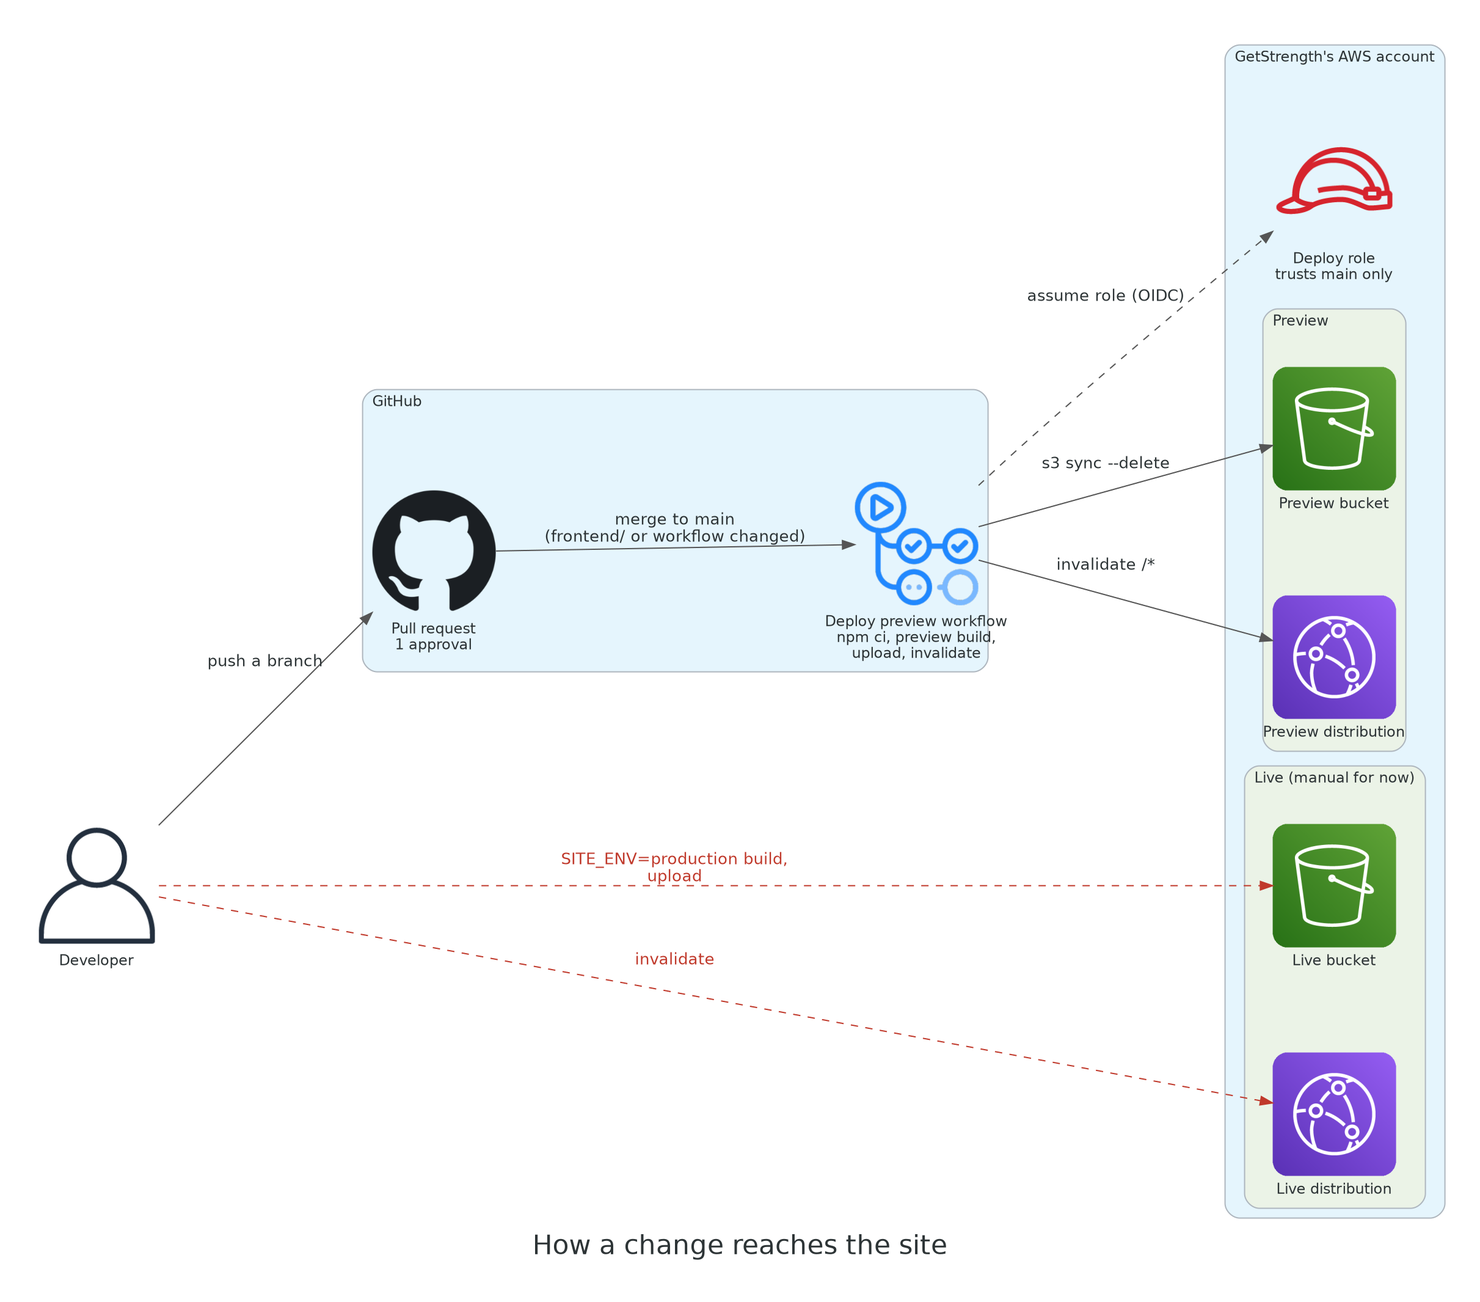
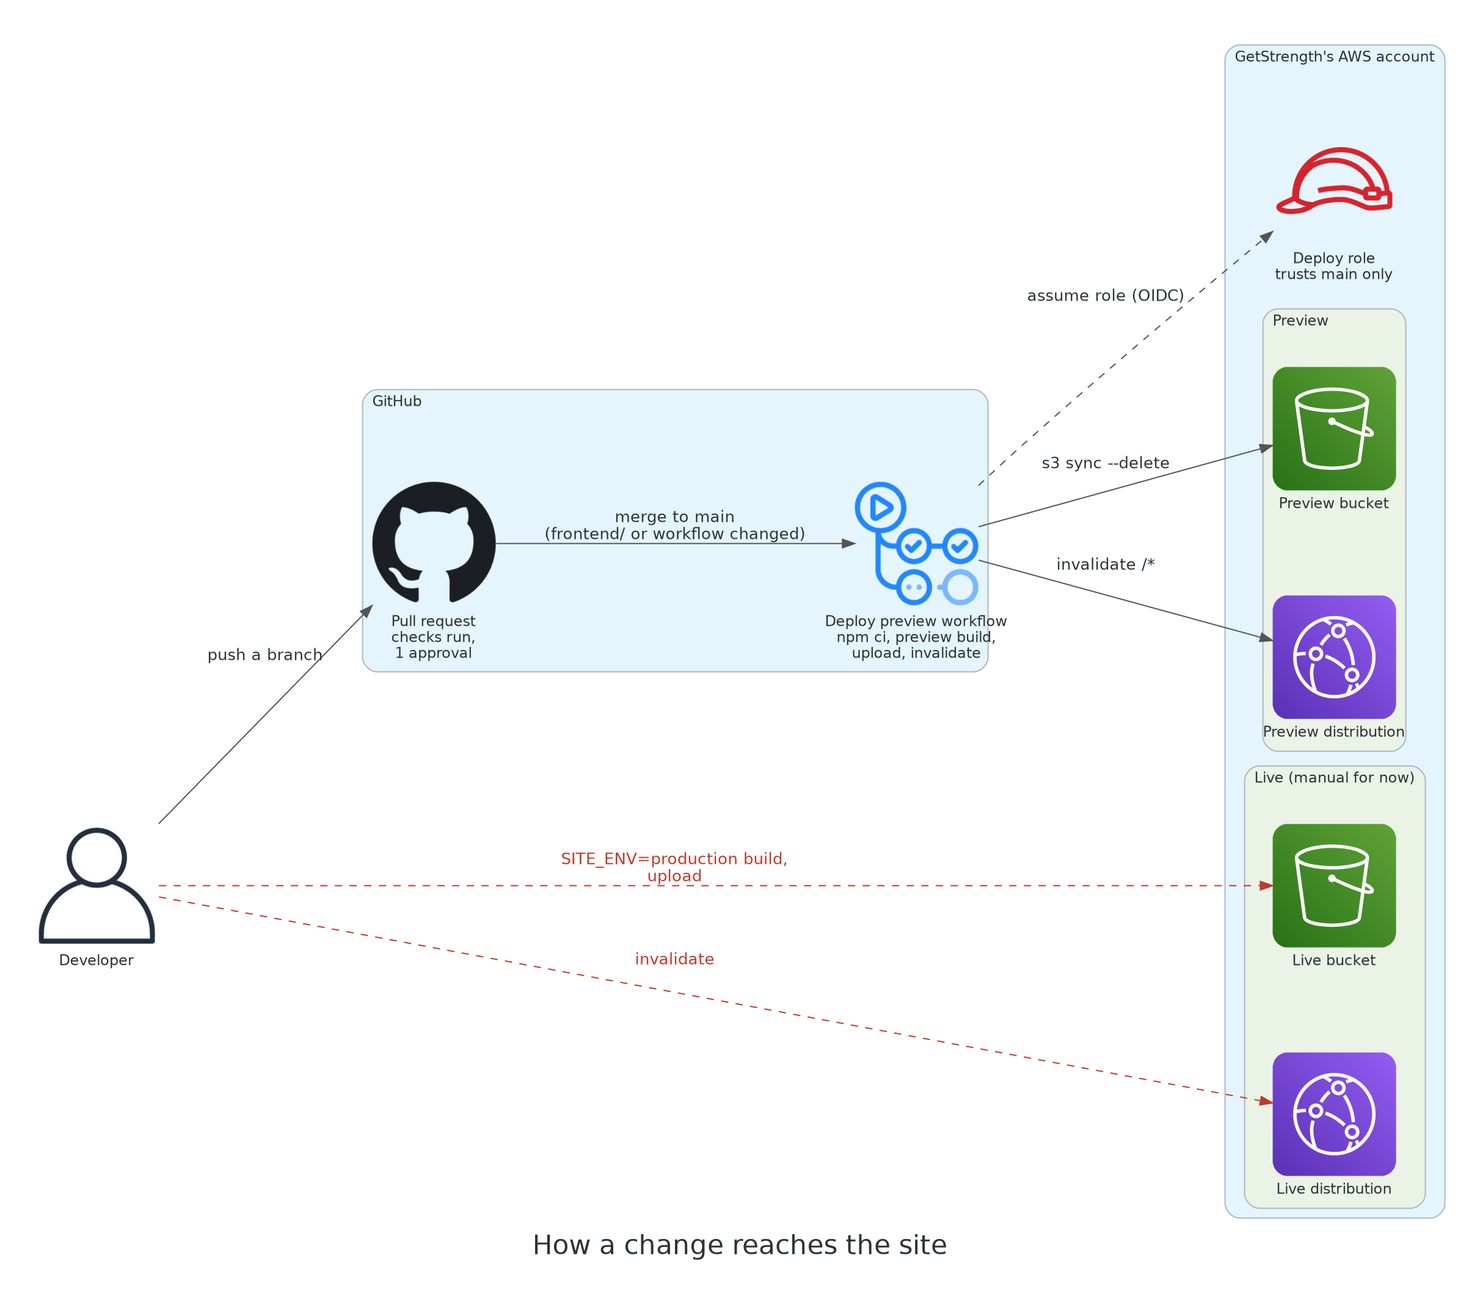
Refresh the README, add a docs index and CONTRIBUTING, update the diagrams (#24)

Changed region(s): [[0.2167, 0.3717, 0.5572, 0.5265], [0.1548, 0.4955, 0.2167, 0.5265]]

diff --git a/docs/diagrams/architecture.py b/docs/diagrams/architecture.py
@@ -35,16 +35,18 @@ with Diagram("How a visit is served", filename="request-path", show=False, direc
         cdn = CloudFront("CloudFront\n+ viewer-request function")
         cert = ACM("ACM certificate\nus-east-1 (at launch)")
         bucket = S3("Private S3 bucket\nap-southeast-2")
-        dns = Route53("Route 53\ngetstrength.com\n(at launch)")
+        dns = Route53("Route 53\nthe gym's domain\n(at launch)")
 
     email = external("Google Workspace\nthe gym's email")
     signup = external("Debit Success\nmembership signup")
+    maps = external("Google Maps\nembedded map")
 
     cdn >> Edge(label="TLS", style="dotted", arrowhead="none") >> cert
     visitors >> Edge(label="HTTPS") >> cdn >> Edge(label="Origin Access Control") >> bucket
     visitors >> Edge(label="DNS lookup", style="dashed") >> dns
     dns >> Edge(label="MX, SPF, DKIM, DMARC", style="dashed") >> email
     visitors >> Edge(label="Join", style="dashed") >> signup
+    visitors >> Edge(label="map embed", style="dashed") >> maps
 
 
 with Diagram("How a change reaches the site", filename="deploy-pipeline", show=False, direction="LR",
@@ -52,7 +54,7 @@ with Diagram("How a change reaches the site", filename="deploy-pipeline", show=F
     dev = User("Developer")
 
     with Cluster("GitHub"):
-        pr = Github("Pull request\n1 approval")
+        pr = Github("Pull request\nchecks run,\n1 approval")
         deploy = GithubActions("Deploy preview workflow\nnpm ci, preview build,\nupload, invalidate")
 
     with Cluster("GetStrength's AWS account"):

diff --git a/README.md b/README.md
@@ -1,26 +1,47 @@
+<div align="center">
+
+<img src="frontend/app/icon.png" width="96" alt="GetStrength Gym shield logo">
+
 # GetStrength Gym website
 
+*The static website for GetStrength Gym in Penrose, Auckland*
+
+[![Checks](https://github.com/GetStrength-Gym/GetStrengthGym/actions/workflows/checks.yml/badge.svg)](https://github.com/GetStrength-Gym/GetStrengthGym/actions/workflows/checks.yml)
 [![Deploy preview](https://github.com/GetStrength-Gym/GetStrengthGym/actions/workflows/deploy-preview.yml/badge.svg)](https://github.com/GetStrength-Gym/GetStrengthGym/actions/workflows/deploy-preview.yml)
+[![Next.js 16](https://img.shields.io/badge/Next.js-16-black?logo=nextdotjs)](https://nextjs.org)
+[![Node.js 22](https://img.shields.io/badge/Node.js-22-3c873a?logo=nodedotjs&logoColor=white)](https://nodejs.org)
 [![License: MIT](https://img.shields.io/badge/license-MIT-blue.svg)](LICENSE)
 
-The new website for **GetStrength Gym** in Penrose, Auckland. It is a static site with three
-pages, **Home**, **About Us** and **Contact**; Home also serves as The Gym page. Membership
-signup stays on Debit Success.
+[Overview](#overview) • [Getting started](#getting-started) • [Commands](#commands) • [How it works](#how-it-works) • [Deploying](#deploying) • [Documentation](#documentation)
+
+</div>
+
+## Overview
+
+The site has three pages: **Home**, **About Us** and **Contact**. Home also serves as The
+Gym page. Membership signup stays on Debit Success.
 
 There is no server, database or CMS. Gym staff never edit the site: they email the
 maintenance team, who change a file here and redeploy
 ([ADR-003](docs/context/decisions/ADR-003-maintenance-team-editing.md)).
 
-> **Status (November 2026): pre-launch.** The preview site redeploys automatically when a
-> merge to `main` changes `frontend/` or the deploy workflow. The live launch, meaning the first production deploy
-> and the DNS move, is still to come. The contact form is a preview-only layout until its
-> sending method is decided.
+- **Static export.** Next.js builds plain HTML, CSS and JS. Nothing runs in production
+  except a CDN in front of a private bucket.
+- **Content as files.** Site details, prices and photos are JSON files, validated on every
+  build.
+- **Two build modes.** A preview build shows sample prices and labelled placeholders. A
+  production build shows only what the gym has confirmed.
+- **Automatic preview.** Every merge to `main` that changes the site redeploys the preview.
 
-## Quick start
+> [!NOTE]
+> **Status (November 2026): pre-launch.** The preview site is live and redeploys on merge.
+> The first production deploy and the DNS move are still to come, and the contact form is a
+> preview-only layout until its sending method is decided. What's left is on the
+> [roadmap](https://github.com/GetStrength-Gym/GetStrengthGym/wiki/Roadmap).
 
-You need [Docker Desktop](https://www.docker.com/products/docker-desktop/). On Windows,
-enable WSL 2, keep the repo inside your Ubuntu home (not on `C:`), and turn on
-Docker Desktop → Settings → Resources → WSL Integration → Ubuntu.
+## Getting started
+
+You need [Docker Desktop](https://www.docker.com/products/docker-desktop/).
 
 ```sh
 git clone https://github.com/GetStrength-Gym/GetStrengthGym.git
@@ -30,10 +51,14 @@ docker compose up --build
 
 Open <http://localhost:3000>. The first run takes a few minutes.
 
+> [!TIP]
+> On Windows, enable WSL 2, keep the repo inside your Ubuntu home (not on `C:`), and turn on
+> Docker Desktop → Settings → Resources → WSL Integration → Ubuntu.
+
 <details>
 <summary>Without Docker</summary>
 
-Use Node.js 22, the version in the Dockerfile and the deploy workflow:
+Use Node.js 22, the version in the Dockerfile and the workflows:
 
 ```sh
 cd frontend
@@ -41,25 +66,11 @@ npm ci
 npm run dev
 ```
 
-Run the `npm` and `node` commands below directly in `frontend/`. For a production build, use
+Run the `npm` commands below directly in `frontend/`. For a production build, use
 `SITE_ENV=production npm run build`.
 </details>
 
-## Documentation
-
-| Document | What it covers |
-|---|---|
-| [docs/requirements.md](docs/requirements.md) | What we're building, and the quote. It is client-facing and mirrored in a shared document, so update both. |
-| [HANDOVER.md](HANDOVER.md) | Where the project stands, and what to watch out for |
-| [Project brief](docs/context/project-brief.md) | Scope, constraints and open questions |
-| [Decisions (ADRs)](docs/context/decisions/README.md) | Why the site is built this way |
-| [Developer runbook](docs/maintenance/content-changes.md) | Making content changes, checking them and deploying |
-| [Change-request guide](docs/maintenance/change-request-guide.md) | For the gym: how to ask for a change |
-| [Design](docs/design/README.md) | Visual direction and the page journey |
-| [Meeting minutes](docs/meetings/README.md) | What was agreed with the client and the team |
-| [Old-site audit](docs/context/current-site-audit.md) | The site this one replaces, and why we started fresh |
-
-## Everyday commands
+## Commands
 
 Run these from the repo root.
 
@@ -77,24 +88,29 @@ docker compose exec frontend npm install <name>   # add a package (while running
 docker compose up --build -V                      # after pulling changes that add packages
 ```
 
+The [Checks](.github/workflows/checks.yml) workflow runs lint, the tests and a preview build
+on every pull request.
+
 ## How it works
 
-![How a visit is served. Visitors reach CloudFront over HTTPS, and CloudFront reads the private S3 bucket through Origin Access Control. At launch, Route 53 answers DNS for getstrength.com and holds the gym's email records, and ACM provides the certificate. Joining happens on Debit Success.](docs/diagrams/request-path.png)
+![How a visit is served. Visitors reach CloudFront over HTTPS, and CloudFront reads the private S3 bucket through Origin Access Control. At launch, Route 53 answers DNS for the gym's domain and holds the gym's email records, and ACM provides the certificate. Joining happens on Debit Success, and the map on Home and Contact is a Google Maps embed.](docs/diagrams/request-path.png)
 
 - **Static export** ([ADR-005](docs/context/decisions/ADR-005-nextjs-static-export.md)).
   Next.js 16, React 19, TypeScript and Tailwind CSS 4 build plain HTML, CSS and JS. No
   application server runs in production.
 - **Content as files** ([ADR-006](docs/context/decisions/ADR-006-content-as-files.md)).
-  Site details live in `frontend/content/site.json`. Real prices live in `prices.json`, and
-  preview builds show `prices.sample.json` instead. The build validates the content and
-  fails with the file and field at fault.
+  Site details live in `frontend/content/site.json` and photo choices in `photos.json`.
+  Real prices live in `prices.json`, and preview builds show `prices.sample.json` instead.
+  The build validates the content and fails with the file and field at fault.
 - **Delivery** ([ADR-007](docs/context/decisions/ADR-007-aws-delivery-route53-oac.md)). A
   private S3 bucket sits behind CloudFront. A CloudFront Function serves `/about/` from
   `about/index.html` and redirects `/about` to `/about/`. Missing pages get the site's 404.
   Route 53 and the certificate arrive at launch; until then the preview uses its CloudFront
   address.
+- **Third parties.** Joining links out to Debit Success, and the map on Home and Contact is
+  a Google Maps embed. Nothing else loads from outside the site.
 
-## Preview and production builds
+### Preview and production builds
 
 `SITE_ENV` decides what a build shows. Anything other than `SITE_ENV=production`, including
 a plain `npm run build`, is a preview build.
@@ -102,14 +118,16 @@ a plain `npm run build`, is a preview build.
 | | Preview (default) | Production (`SITE_ENV=production`) |
 |---|---|---|
 | Prices shown | `prices.sample.json`, labelled "preview only" | `prices.json` |
-| Unconfirmed content (photos, hours, phone…) | labelled placeholders | left out |
+| Unconfirmed content (coach, services, email…) | labelled placeholders | left out |
 | Price checks | both price files validated; client confirmation not needed | `prices.json` validated; the build **fails** until the client has confirmed the prices |
 
-**Never upload a preview build to the live site.**
+> [!CAUTION]
+> Never upload a preview build to the live site. The sample prices and placeholders would go
+> live with it.
 
 ## Deploying
 
-![How a change reaches the site. A developer opens a pull request; once it has one approval and is merged to main with changes to frontend/ or the deploy workflow, the Deploy preview workflow builds the site, assumes the deploy role through OIDC, syncs the files to the preview bucket and invalidates the preview distribution. The live bucket and distribution are updated by hand from a production build.](docs/diagrams/deploy-pipeline.png)
+![How a change reaches the site. A developer opens a pull request, and the Checks workflow runs lint, tests and a build on it. Once it has one approval and is merged to main with changes to frontend/ or the deploy workflow, the Deploy preview workflow builds the site, assumes the deploy role through OIDC, syncs the files to the preview bucket and invalidates the preview distribution. The live bucket and distribution are updated by hand from a production build.](docs/diagrams/deploy-pipeline.png)
 
 - **Preview: automatic** ([ADR-008](docs/context/decisions/ADR-008-auto-deploy-preview.md)).
   When a merge to `main` changes `frontend/` or the workflow, the
@@ -138,44 +156,32 @@ with the official AWS icons. The command to regenerate them is at the top of tha
 .
 ├── frontend/                 the website (Next.js)
 │   ├── app/                  pages: Home, about/, contact/, 404
-│   ├── components/           header, footer, join button, prices, placeholders
-│   ├── content/              site.json, prices.json, prices.sample.json
+│   ├── components/           header, footer, join button, prices, hero video, map
+│   ├── content/              site.json, photos.json, prices.json, prices.sample.json
 │   ├── lib/                  content loader and validation, with its test
 │   ├── cloudfront/           CloudFront viewer-request function, with its test
-│   └── public/               images, served as-is
+│   └── public/               images and the hero video, served as-is
 ├── docs/                     requirements, decisions, runbooks, design, meetings, diagrams
 ├── scripts/                  maintainer tools (publishing the docs)
-├── .github/workflows/        preview deploy
+├── .github/                  workflows (checks, preview deploy) and Dependabot config
 ├── docker-compose.yml        local development only
+├── CONTRIBUTING.md           branches, pull requests and the ground rules
 ├── HANDOVER.md               where things stand, for whoever picks this up
 └── CLAUDE.md                 rules for AI-assisted work on this repo
 ```
 
-## Ground rules
+## Documentation
 
-- **Don't invent gym facts.** Prices, hours, names and claims come from the client, in
-  writing. Until then, use a labelled placeholder or `TODO(confirm)`.
-- **Real prices live in one place**, `frontend/content/prices.json`. Never put a price in a
-  page or component.
-- **This repo is public.** Never commit, or paste into a PR: AWS account IDs, bucket names,
-  distribution IDs or preview addresses, keys, client contact details, private document links
-  or internal pricing notes.
-- **Stay static.** Don't add route handlers, middleware, server actions or ISR. `next/image`
-  runs unoptimized, so resize and compress photos before adding them. Keep
-  `trailingSlash: true`; clean URLs depend on it.
-- Build mobile-first at 375px and meet basic WCAG 2.2 AA, with a unique title and one H1 per
-  page.
+The full map is in [docs/README.md](docs/README.md). The ones you'll need most:
 
-## Contributing
-
-1. Branch from `main`. Name the branch after the Jira ticket, e.g. `feature/GS-19-about-contact-pages`,
-   or `content/<short-description>` for a content change.
-2. Run lint, both tests and a build before you push.
-3. Open a PR with the ticket key in the title. `main` needs one approval, and pushing new
-   commits dismisses earlier approvals.
-4. A decision that is expensive to reverse gets an ADR: copy
-   [the template](docs/context/decisions/ADR-000-template.md). A client request heard in a
-   meeting goes into the [minutes](docs/meetings/README.md) before it goes into code.
+| Document | What it covers |
+|---|---|
+| [Requirements](docs/requirements.md) | What we're building, and the quote |
+| [HANDOVER.md](HANDOVER.md) | Where the project stands, and what to watch out for |
+| [Developer runbook](docs/maintenance/content-changes.md) | Making content changes, checking them and deploying |
+| [Decisions (ADRs)](docs/context/decisions/README.md) | Why the site is built this way |
+| [Roadmap](https://github.com/GetStrength-Gym/GetStrengthGym/wiki/Roadmap) | What's done, what's next |
+| [CONTRIBUTING.md](CONTRIBUTING.md) | How to make a change, and the rules that keep the site safe |
 
 ## Troubleshooting
 
@@ -188,7 +194,6 @@ with the official AWS icons. The command to regenerate them is at the top of tha
   `docker-compose.yml`.
 - **Clean up build output:** `docker compose run --rm frontend rm -rf out`.
 
-## Team and license
+## Team
 
 Built and maintained by Johnson Zhang (lead), Desmond Li, Jayden Pham and Kevin Wang.
-Released under the [MIT License](LICENSE), © 2026 GetStrength Gym.

diff --git a/docs/README.md b/docs/README.md
@@ -1,0 +1,54 @@
+# Documentation
+
+Everything written down about the GetStrength Gym website, grouped by what you came to do.
+New here? Read [HANDOVER.md](../HANDOVER.md) first, then the [requirements](requirements.md).
+
+## What we're building
+
+| Document | What it covers |
+|---|---|
+| [requirements.md](requirements.md) | The client-facing requirements and the quote. The single source of truth for scope. It is mirrored in a shared document, so update both. |
+| [quote-GS-001.md](quote-GS-001.md) | The quote dated 23 September 2026, kept unchanged |
+| [Project brief](context/project-brief.md) | Scope, constraints and the open questions still waiting on the gym |
+| [Stakeholders](context/stakeholders.md) | Who is on the team and who decides for the client |
+| [Glossary](context/glossary.md) | Project and gym terms |
+| [Roadmap](https://github.com/GetStrength-Gym/GetStrengthGym/wiki/Roadmap) (wiki) | What's done, what's next |
+
+## Why it's built this way
+
+| Document | What it covers |
+|---|---|
+| [Decisions (ADRs)](context/decisions/README.md) | One record per significant decision, with an index and each one's status |
+| [Diagrams](diagrams/) | The request path and the deploy pipeline, generated from `architecture.py` |
+| [Old-site audit](context/current-site-audit.md) | The site this one replaces, and why we started fresh |
+
+## Changing and running the site
+
+| Document | What it covers |
+|---|---|
+| [Developer runbook](maintenance/content-changes.md) | Changing content, checking it, deploying, and rolling back |
+| [Change-request guide](maintenance/change-request-guide.md) | For the gym: how to ask for a change |
+| [Site inventory](content/site-inventory.md) | The old site's pages and what happens to each one |
+
+## Design
+
+| Document | What it covers |
+|---|---|
+| [Design overview](design/README.md) | Direction, brand tokens and the Figma files |
+| [Page journey](design/five-page-journey.md) | The current three-page design. The filename is older than the scope. |
+| [Visual direction](design/visual-direction.md) | Colour, type, components and contrast checks |
+
+## History
+
+| Document | What it covers |
+|---|---|
+| [Meeting minutes](meetings/README.md) | What was agreed with the client and the team. Append-only. |
+| [Raw meeting notes](meetings/raw/) | The source notes behind each set of minutes |
+
+## Keeping the docs honest
+
+- Minutes are never rewritten. If a decision changes, write new minutes.
+- An accepted ADR is never edited to change its decision. Add a dated note, or supersede it.
+- Unknown gym facts are written as `TODO(confirm)`, never guessed.
+- This repo is public. Internal pricing notes, client contact details and private document
+  links stay out of it.

diff --git a/CONTRIBUTING.md b/CONTRIBUTING.md
@@ -1,0 +1,34 @@
+# Contributing
+
+## Making a change
+
+1. Branch from `main`. Name the branch after the Jira ticket, e.g.
+   `feature/GS-19-about-contact-pages`, or `content/<short-description>` for a content change.
+2. Run lint, the tests and a build before you push. The commands are in the
+   [README](README.md#commands), and the Checks workflow runs the same three on your pull
+   request.
+3. Open a PR with the ticket key in the title. `main` needs one approval, and pushing new
+   commits dismisses earlier approvals.
+4. A decision that is expensive to reverse gets an ADR: copy
+   [the template](docs/context/decisions/ADR-000-template.md). A client request heard in a
+   meeting goes into the [minutes](docs/meetings/README.md) before it goes into code.
+
+Content changes (prices, hours, photos, copy) have their own step-by-step
+[runbook](docs/maintenance/content-changes.md).
+
+## Ground rules
+
+- **Don't invent gym facts.** Prices, hours, names and claims come from the client, in
+  writing. Until then, use a labelled placeholder or `TODO(confirm)`.
+- **Real prices live in one place**, `frontend/content/prices.json`. Never put a price in a
+  page or component.
+- **This repo is public.** Never commit, or paste into a PR: AWS account IDs, bucket names,
+  distribution IDs or preview addresses, keys, client contact details, private document links
+  or internal pricing notes.
+- **Stay static.** Don't add route handlers, middleware, server actions or ISR. `next/image`
+  runs unoptimized, so resize and compress photos before adding them. Keep
+  `trailingSlash: true`; clean URLs depend on it.
+- Build mobile-first at 375px and meet basic WCAG 2.2 AA, with a unique title and one H1 per
+  page.
+- **History stays history.** Meeting minutes are append-only, and an accepted ADR is never
+  edited to change its decision: add a dated note, or write a new ADR that supersedes it.

diff --git a/docs/context/glossary.md b/docs/context/glossary.md
@@ -5,7 +5,18 @@ Add a row the first time a term appears in minutes.
 
 | Term | Means |
 |------|-------|
-| TODO | |
+| ADR | Architecture Decision Record: one file per significant decision, in `docs/context/decisions/`. |
+| Preview build | Any build without `SITE_ENV=production`. Shows sample prices and labelled placeholders. Never goes to the live site. |
+| Production build | A build with `SITE_ENV=production`. Shows only confirmed content, and fails until the prices are confirmed. |
+| Preview site | The private-address copy of the site that redeploys on every merge to `main` (ADR-008). |
+| Live site | The public site on the gym's domain. Not launched yet. |
+| `confirmedWithClient` | The date in `prices.json` on which the gym confirmed the prices. `null` blocks a production build. |
+| `TODO(confirm)` | A fact we don't have from the gym in writing yet. Never replace it with a guess. |
+| Debit Success | The gym's membership signup and billing provider. Every Join button links to its form. |
+| Day pass | A single casual visit, priced separately from the membership plans. |
+| OAC | Origin Access Control: lets CloudFront read the private S3 bucket so nothing else can (ADR-007). |
+| OIDC | How the deploy workflow gets short-lived AWS credentials without stored keys (ADR-008). |
+| Maintenance team | The four developers. The gym emails a change request and the team edits the files (ADR-003). |
 
-Examples of things worth defining: class names, membership tiers, "casual" vs
-"concession" vs "membership", coaching programme names, in-house booking jargon.
+Still worth defining once the gym confirms them: membership tier names and what each
+includes, and any coaching programme names.

diff --git a/docs/maintenance/content-changes.md b/docs/maintenance/content-changes.md
@@ -16,6 +16,7 @@ All commands run from the repo root, through Docker.
 | Address, hours, contact details, nav, social links, Home copy | `frontend/content/site.json` |
 | Membership prices (the only place prices live) | `frontend/content/prices.json` |
 | Sample prices for the preview site only | `frontend/content/prices.sample.json` |
+| Which photo or video fills each slot | `frontend/content/photos.json` |
 | Loader and validation | `frontend/lib/content.ts` |
 
 ## Preview builds and production builds
